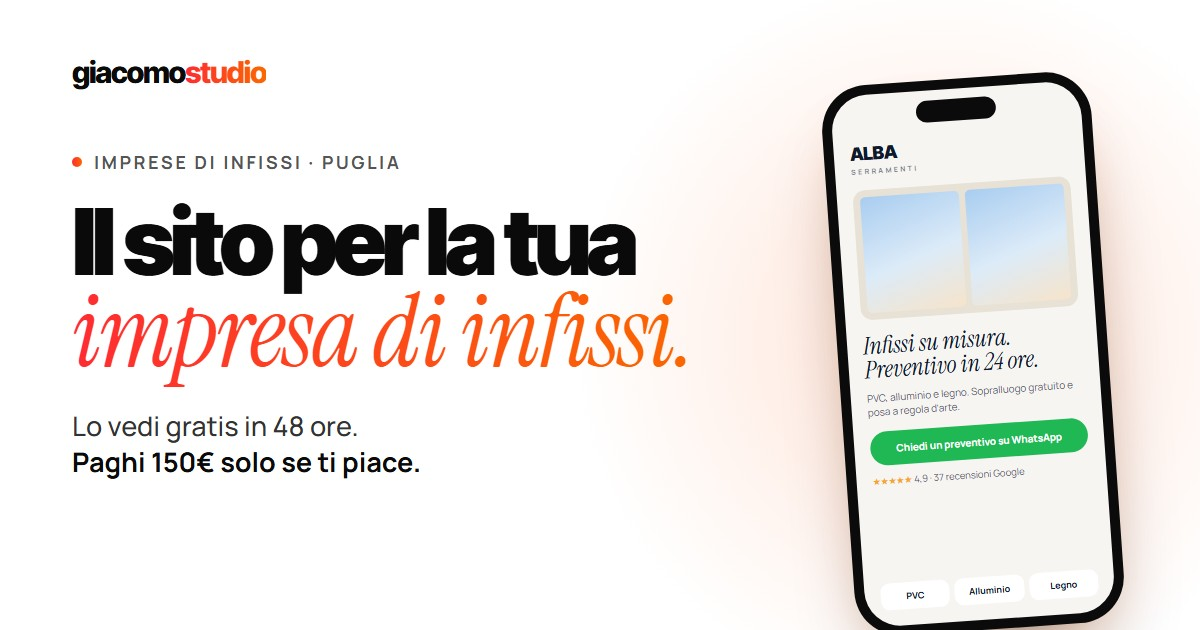
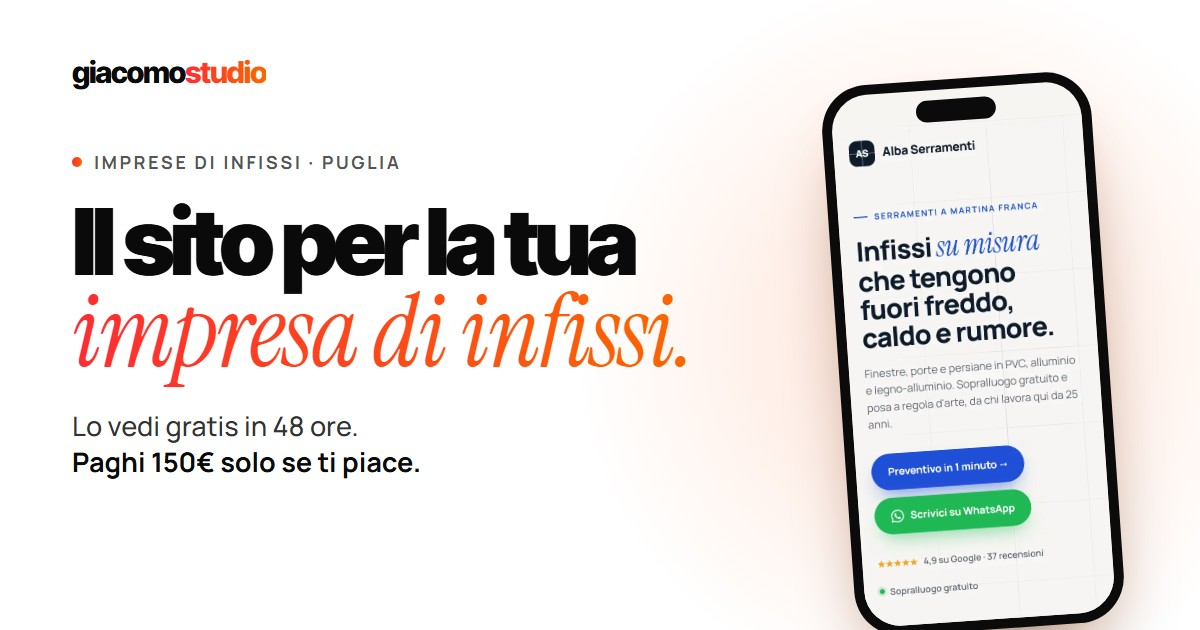
redesign: immagine social e documentazione per la demo vera

Changed region(s): [[0.7092, 0.2111, 0.925, 0.9651], [0.8633, 0.9048, 0.8942, 0.9349]]

diff --git a/og-template.html b/og-template.html
@@ -26,16 +26,8 @@
     .phone { position: absolute; right: 92px; top: 78px; width: 270px; height: 552px; padding: 10px; border-radius: 46px; background: #0b0b0c;
       transform: rotate(-4deg); box-shadow: 0 50px 90px -40px rgba(10,10,10,.45), 0 30px 60px -30px rgba(250,104,0,.4); }
     .phone::before { content: ''; position: absolute; top: 20px; left: 50%; transform: translateX(-50%); width: 80px; height: 22px; border-radius: 20px; background: #0b0b0c; z-index: 2; }
-    .screen { width: 100%; height: 100%; border-radius: 36px; background: #f6f5f2; padding: 48px 16px 16px; color: #0e1a2b; display: flex; flex-direction: column; }
-    .brand { font-family: 'Inter Tight', sans-serif; font-weight: 900; font-size: 18px; letter-spacing: -.03em; }
-    .brand small { display: block; font-family: 'Manrope'; font-size: 7px; letter-spacing: .34em; font-weight: 700; opacity: .55; margin: 3px 0 14px; }
-    .win { height: 130px; border-radius: 12px; background: #e7e1d6; padding: 7px; display: grid; grid-template-columns: 1fr 1fr; gap: 6px; margin-bottom: 14px; }
-    .win i { border-radius: 5px; background: linear-gradient(160deg, #a9cdf0 0%, #dcebf8 55%, #f6e4cb 100%); }
-    .t { font-family: 'Instrument Serif', serif; font-size: 24px; line-height: 1.02; margin-bottom: 8px; }
-    .x { font-size: 10px; color: #5d6675; margin-bottom: 12px; line-height: 1.45; }
-    .btn { background: #1fb855; color: #fff; border-radius: 100px; padding: 10px; text-align: center; font-size: 10px; font-weight: 800; }
-    .stars { font-size: 9.5px; color: #5d6675; margin-top: 9px; } .stars span { color: #f5a623; }
-    .chips { display: flex; gap: 5px; margin-top: auto; } .chips span { flex: 1; background: #fff; border-radius: 9px; padding: 7px 0; font-size: 9px; font-weight: 700; text-align: center; }
+    .screen { width: 100%; height: 100%; border-radius: 36px; overflow: hidden; background: #f6f5f2; padding-top: 34px; }
+    .screen img { display: block; width: 100%; height: auto; }
   </style>
 </head>
 <body>
@@ -47,15 +39,7 @@
     <p class="sub">Lo vedi gratis in 48 ore.<br><b>Paghi 150€ solo se ti piace.</b></p>
   </div>
   <div class="phone">
-    <div class="screen">
-      <div class="brand">ALBA<small>SERRAMENTI</small></div>
-      <div class="win"><i></i><i></i></div>
-      <div class="t">Infissi su misura. Preventivo in 24 ore.</div>
-      <div class="x">PVC, alluminio e legno. Sopralluogo gratuito e posa a regola d'arte.</div>
-      <div class="btn">Chiedi un preventivo su WhatsApp</div>
-      <div class="stars"><span>★★★★★</span> 4,9 · 37 recensioni Google</div>
-      <div class="chips"><span>PVC</span><span>Alluminio</span><span>Legno</span></div>
-    </div>
+    <div class="screen"><img src="img/esempio-mobile.webp" alt=""></div>
   </div>
 </body>
 </html>

diff --git a/CLAUDE.md b/CLAUDE.md
@@ -9,7 +9,7 @@ Contiene identità, posizionamento, offerta, tono di voce, design system, archit
 
 ## 1. Identità
 
-**Giacomo** — Brand Designer & Developer freelance. Il brand è `giacomostudio` (minuscolo, tutto attaccato, "studio" in gradient).
+**Giacomo** — studente di Ingegneria Informatica e web designer freelance (in pagina: "Studente di Ingegneria Informatica · Web Designer"). Il brand è `giacomostudio` (minuscolo, tutto attaccato, "studio" in gradient).
 
 Non è un'agenzia. È **una persona sola** che fa tutto: strategia, design, codice, consegna, assistenza. Questo non è un limite da nascondere, è **il differenziale principale**:
 
@@ -182,12 +182,14 @@ La card garanzia (`.pkg-card--green`) ridefinisce `--accent` / `--accent-soft` l
 
 ### Componenti
 
-- Pulsanti: `.btn.btn-dark` (principale, nero con `.wa-dot` verde), `.btn.btn-wa` (verde: solo CTA finale), `.btn-link` (secondario sottolineato).
+- Pulsanti: `.btn.btn-dark` (principale, nero), `.btn.btn-wa` (verde: solo CTA finale), `.btn-link` (secondario sottolineato).
+  Ogni pulsante WhatsApp ha il logo `<img src="whatsapp.svg" class="wa-mark">` (un test lo verifica).
   Il gradient sui pulsanti si usa **solo** nel submit del Check-up.
 - `.section` (contenitore 1120px) dentro `<section id="…">`; `class="section--alt"` sulla `<section>` per il fondo grigio caldo.
   `.section-head` = intestazione centrata (kicker + h2 + `.lead`).
-- `.phone` > `.phone-screen` = telefono con mini-sito Alba (`.mini-logo`, `.mini-sub`, `.mini-win`, `.mini-title`, `.mini-btn`…),
-  riusato in hero, prima/dopo, preventivo guidato e check-up. Ogni `.mini-logo` segue il nome scritto nell'hero.
+- `.phone` > `.phone-screen` = telefono. Hero e check-up mostrano lo screenshot vero della demo (`.phone-screen--shot` > `img.phone-shot`,
+  `img/esempio-mobile.webp`); nell'hero scorre da solo una volta e poi col dito. Prima/dopo usa `img/prima-mobile.webp` e lo stesso screenshot.
+  Il preventivo guidato (`#quote`) è l'unico telefono disegnato in HTML. Niente più mini-siti finti.
 - Radius: 14–24px (riquadri), 26–40px (card e blocchi), 100px (pill e bottoni). Breakpoint: 860 / 740 / 680 / 340px.
 
 ### Animazioni
@@ -218,11 +220,13 @@ whatsapp.svg    logo ufficiale WhatsApp (cerchio verde + glifo bianco)
 logo-mark.svg   favicon, mark "G" in gradient
 og-image.jpg     anteprima social 1200×630 — generata da og-template.html
 og-template.html sorgente dell'anteprima social (noindex, non linkata dal sito)
+img/            screenshot della demo per la landing: esempio-mobile.webp (telefoni), esempio-desktop.webp (browser del pacchetto), prima-mobile.webp (il "prima")
+esempio/        SITO DI ESEMPIO pubblico (Alba Serramenti, impresa inventata, noindex) — generato, non modificarlo a mano (vedi sotto)
 face.webp       avatar FAQ
 giacomo-brand-designer-developer-freelance.webp   foto sezione "Chi sono"
 robots.txt, sitemap.xml
 
-api/            api/subscribe.js — funzione Vercel che iscrive l'email del form Check-up alla lista Brevo
+api/            api/subscribe.js — funzione Vercel che salva il numero di telefono del form Check-up su Brevo (attributo SMS)
 tests/          test Playwright + server statico (escluso dal deploy con .vercelignore)
 web-mockup/     DEMO CLIENTE scollegata (ristorante Shoshin) — non fa parte del sito
 ```
@@ -237,18 +241,26 @@ cd tests && npm install        # la prima volta
 npx playwright test             # tutta la suite, telefono (375px) e computer (1280px)
 node shot.mjs <cartella> "#hero" 375,1280   # screenshot di una sezione
 node og.mjs                     # rigenera og-image.jpg da og-template.html
+node shots.mjs                  # rigenera img/*.webp da /esempio/ e da fixtures/prima-sito.html
 ```
+
+### Sito di esempio (`/esempio/`)
+
+Nasce da `Documents/projects/modello-serramentisti` (fuori da questo repo): `clienti/alba-serramenti.json` con `esempio: true`
+(striscia "Sito di esempio", noindex, niente telefono né P.IVA finti, WhatsApp = numero di Giacomo) e le foto in
+`clienti/alba-serramenti/` (fonti Unsplash in `FONTI.md`). Per aggiornarlo: `node genera.mjs alba-serramenti`, copia
+`siti/alba-serramenti/index.html` e i `.webp` in `esempio/`, poi `cd tests && node shots.mjs` per rifare gli screenshot.
 
 I test controllano: testi identici al sito di riferimento (`tests/fixtures/old-index.html`), FAQ = JSON-LD,
 ogni link WhatsApp tracciato con il `button_location` giusto, form Check-up, interazioni, nessuno scroll
-orizzontale a 360px, pagina leggibile senza JS, "riduci movimento", peso non superiore alla versione precedente.
+orizzontale a 360px, pagina leggibile senza JS, "riduci movimento", peso entro la versione vecchia + 450KB, la demo su `/esempio/`, la funzione `api/subscribe.js`.
 Se cambi un testo **apposta**, aggiorna anche `tests/fixtures/old-index.html` (o il test fallisce, ed è giusto così).
 
 ### JS in pagina (tutto inline, fine di `index.html`)
 
-anno nel footer · `#nav.scrolled` + sticky dopo 320px · observer reveal · smooth scroll · hamburger + drawer · scrollspy nav · contatori · **nome impresa** (`#demo-name`) · prima/dopo · preventivo guidato (`quoteMessage`) · ricerca Google simulata · calcolatore (`timesRepaid`) · accordion FAQ · **form Check-up** · **tracking WhatsApp**.
+anno nel footer · `#nav.scrolled` + sticky dopo 320px · observer reveal · smooth scroll · hamburger + drawer · scrollspy nav · contatori · telefono dell'hero che scorre · prima/dopo · preventivo guidato (`quoteMessage`) · ricerca Google simulata · calcolatore (`timesRepaid`) · accordion FAQ · **form Check-up** · **tracking WhatsApp**.
 
-**Nome impresa.** Il campo `#demo-name` nell'hero chiama `cleanName` (max 28 caratteri), aggiorna ogni `.mini-logo` ed emette l'evento `gs:name` (`detail.name`; ultimo valore in `window.gsName`). Gli `href` dei link **restano sempre quelli base**: GA4 (clic in uscita) e Pixel leggono gli URL dei link, quindi il nome non ci deve stare. Al clic su un `a[data-wa]`, se c'è un nome, il listener di tracciamento fa `preventDefault()` e apre `WA_URL + buildWaText(nome)`. A GA4 va solo `demo_name_typed`, senza parametri, una volta per visita. **Ogni nuovo link WhatsApp deve avere l'attributo `data-wa`** (un test lo verifica).
+**Link WhatsApp.** Gli `href` sono tutti uguali (testo base precompilato). **Ogni nuovo link WhatsApp deve avere l'attributo `data-wa`** e il logo `.wa-mark` (i test lo verificano).
 
 **Rete di sicurezza.** Il listener di tracciamento è il primo codice dello script, così funziona anche se il resto si rompe. `html.js` viene messo solo se esiste `IntersectionObserver`, e se lo script non arriva in fondo (`window.gsReady`) entro 3 secondi la classe si toglie e tutti i blocchi diventano visibili.
 
@@ -270,14 +282,14 @@ Il numero nei link è `393493457558` (**con prefisso 39** — senza, `wa.me` fal
 
 ### Form Check-up — seconda scelta, non conversione principale
 
-Sezione `#check-up`, subito dopo `#contatto`, separata da un divisore "oppure". È per chi non è pronto a scrivere su WhatsApp: lascia email + tipo di attività e riceve un esempio di sito.
+Sezione `#check-up`, subito dopo `#contatto`, separata da un divisore "oppure". È per chi non è pronto a scrivere su WhatsApp: lascia il **numero di cellulare** + "Hai già un sito?", e Giacomo gli scrive a mano su WhatsApp con il link al sito di esempio.
 
-- Il form fa `POST /api/subscribe` con `{ email, tipo_business, source: 'landing-checkup' }`. La funzione aggiunge il contatto alla lista Brevo.
-- Su Vercel servono le env `BREVO_API_KEY` e `BREVO_LIST_ID`. Senza, l'endpoint risponde 500 e l'utente vede l'errore. In Brevo vanno creati gli attributi `TIPO_BUSINESS` e `SOURCE`.
+- Il form normalizza il numero (`normPhone`: spazi, punti, trattini, `0039` → `+39…`, 6–11 cifre; stessa regola in `api/subscribe.js`) e fa `POST /api/subscribe` con `{ telefono, tipo_business, ha_sito, source: 'landing-checkup' }`. La funzione crea il contatto Brevo con l'attributo `SMS` (senza email).
+- Su Vercel servono le env `BREVO_API_KEY` e `BREVO_LIST_ID`. Senza, l'endpoint risponde 500 e l'utente vede l'errore. In Brevo vanno creati gli attributi `TIPO_BUSINESS`, `HA_SITO` e `SOURCE`.
 - Al successo invia `checkup_submit` (GA4) + `CheckupRequest` (Pixel, custom). **Evento distinto** da quello WhatsApp: le campagne ottimizzano su `WhatsAppClick`, non su questo.
 - Honeypot `#cu-sito`: se compilato, mostra la conferma senza inviare nulla.
 - Il submit è gradient, **mai verde**. Il blocco è volutamente più sobrio della `.cta-box` (bianco su fondo `--bg-alt`): non deve competere con WhatsApp.
-- Il copy promette "quattro email al massimo, niente newsletter, niente telefonate". Qualsiasi sequenza Brevo deve stare dentro questo limite, e ogni email deve avere il link di disiscrizione (la privacy lo promette).
+- Il copy promette "Ti scrivo una volta sola. Niente pubblicità, niente chiamate a sorpresa." Niente sequenze automatiche.
 
 ---
 
@@ -295,7 +307,7 @@ Sezione `#check-up`, subito dopo `#contatto`, separata da un divisore "oppure". 
 | 8 | Confronto | `#confronto` | "costa troppo / posso fare da solo" |
 | 9 | FAQ | `#faq` | Obiezioni residue (7 domande) |
 | 10 | CTA finale | `#contatto` | Ultima chiamata |
-| 11 | Check-up | `#check-up` | "oppure": chi non è pronto lascia l'email e riceve un esempio |
+| 11 | Check-up | `#check-up` | "oppure": chi non è pronto lascia il cellulare e riceve il sito di esempio su WhatsApp |
 | 12 | Footer + sticky bar | `#sticky-wa` | CTA persistente su mobile |
 
 ---
@@ -323,7 +335,7 @@ Il valore è ripetuto in **~30 punti**. Cambiarlo in un posto solo lascia il sit
 - [ ] `#confronto`: **due copie** — tabella desktop **e** card mobile
 - [ ] `#faq`: 7 risposte
 - [ ] `#contatto`: H2 + trust item
-- [ ] **tutti i link `wa.me`**: il testo precompilato cita il prezzo (e `buildWaText` nel JS)
+- [ ] **tutti i link `wa.me`**: il testo precompilato cita il prezzo
 - [ ] calcolatore: `timesRepaid` divide per 150
 - [ ] `tests/fixtures/old-index.html`: aggiorna i testi di riferimento, o i test di "testi invariati" falliscono
 
@@ -354,6 +366,6 @@ Il blocco `FAQPage` nel `<head>` deve rispecchiare **parola per parola** le FAQ 
 
 ### Note aperte
 
-- Conversioni in pagina: WhatsApp (8 link `wa.me`, la principale), il form Check-up (email → Brevo) e il `mailto:` nel footer.
-- **Sequenza email Check-up: non ancora costruita.** Oggi le email arrivano nella lista Brevo e basta. Finché la sequenza automatica non esiste, l'esempio di sito va mandato a mano a ogni nuovo iscritto — il form lo promette.
+- Conversioni in pagina: WhatsApp (8 link `wa.me`, la principale), il form Check-up (cellulare → Brevo) e il `mailto:` nel footer.
+- **Check-up:** i numeri arrivano nella lista Brevo. A ogni nuovo numero Giacomo scrive a mano su WhatsApp con il link `https://giacomostudio.it/esempio/` — il form lo promette.
 - Se cambi cosa raccoglie il form o chi riceve i dati, aggiorna `privacy.html` (sezioni 2, 3, 4, 5, 8) nello stesso commit.
